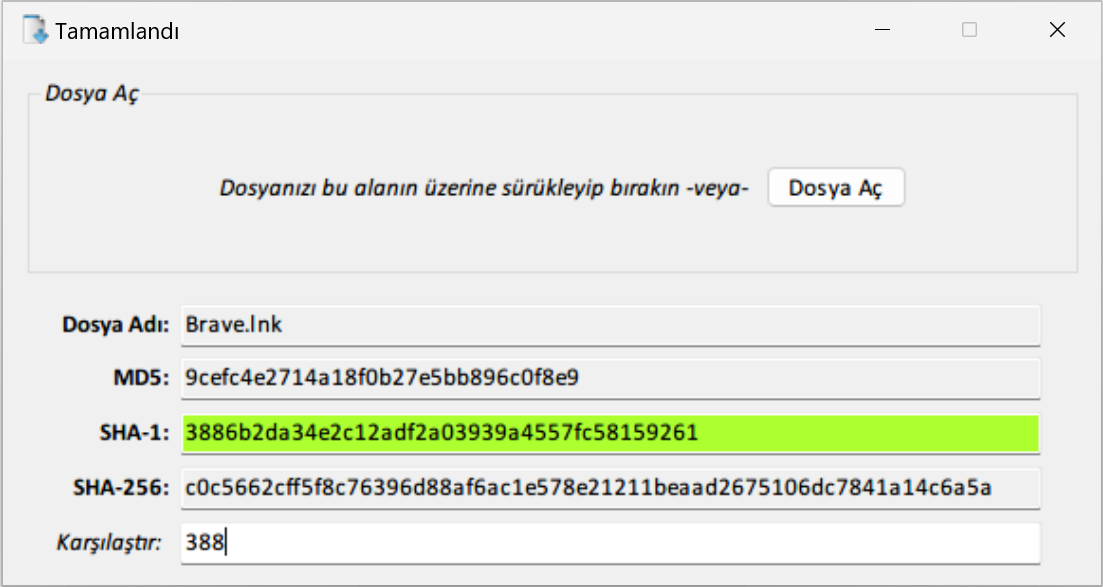
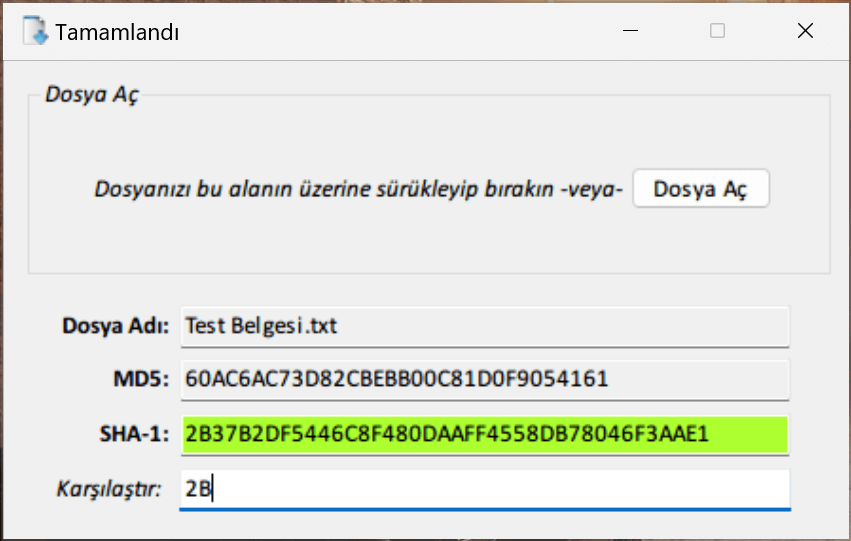
Dosya Hash Degeri Hesaplayici Guncellendi

Changed region(s): [[0.0, 0.0, 1.0, 1.0], [0.0917, 0.2957, 0.886, 0.3845]]

diff --git a/_posts/programlar/2023-04-04-dosya-hash-degeri-hesaplayici.md b/_posts/programlar/2023-04-04-dosya-hash-degeri-hesaplayici.md
@@ -3,7 +3,7 @@ layout: post
 title: Dosya Hash Değeri Hesaplayıcı
 date: 2023-04-04 11:43 +0300
 categories: Programlar
-tags: Hash Değeri, Sha-1, Sha-256, MD5, Kontrol Kodu, Hash Hesapla
+tags: Hash Değeri, MD5, Sha-1, Kontrol Kodu, Hash Hesapla
 excerpt: Bundan yaklaşık bir hafta önce (programı ilk yazdığım 2017 yılında), programlarımdan birine dair eleştiri geldi. Eleştiriyi yapan kişi temel olarak programın virüs ve casus program barındırdığını söylemekte, kendince çeşitli nedenler sıralamaktaydı. Kendisine verdiğim cevaplarda programın kaynak kodlarına göz gezdirmesini ve VirusTotal sonuçlarına bakmasını istedim...
 redirect_from:
   - /programlar/dosya-hash-degeri-hesaplayici/
@@ -27,23 +27,22 @@ Burada bazı faydalar dikkatinizi çekecektir:
 - Hash sayesinde dosyaların düzgün indirilip indirilmediği öğrenilebilirsiniz.
 - Hash sayesinde dosyalarda değişiklik yapılıp yapılmadığı öğrenilebilirsiniz.
 
-Girizgah fazla uzadı nedense. Çok mu dolmuşum ne?!?! Özet geçeyim; bu programla dosyaların MD5 ve SHA-1, SHA-256 değerlerini görebilir ve bunları indirdiğiniz sitedeki hash değerleri ile karşılaştırabilirsiniz. Değerler karşı taraf ile bire bir uyuyorsa dosyada hiçbir sorun yoktur ve dosyaya dokunulmamıştır. Fakat değerler aynı değilse o dosyadan hayır yoktur. Dosya başkaları veya 3. şahıslarca değiştirilmiştir. Mümkünse dosyaya temkinli yaklaşın. Hatta dosyayı VirusTotal'e yükleyerek tarama yapın. Programın özelliklerine gelecek olursak;
+Girizgah fazla uzadı nedense. Çok mu dolmuşum ne?!?! Özet geçeyim; bu programla dosyaların MD5 ve SHA-1 değerlerini görebilir ve bunları indirdiğiniz sitedeki hash değerleri ile karşılaştırabilirsiniz. Değerler karşı taraf ile bire bir uyuyorsa dosyada hiçbir sorun yoktur ve dosyaya dokunulmamıştır. Fakat değerler aynı değilse o dosyadan hayır yoktur. Dosya başkaları veya 3. şahıslarca değiştirilmiştir. Mümkünse dosyaya temkinli yaklaşın. Hatta dosyayı VirusTotal'e yükleyerek tarama yapın. Programın özelliklerine gelecek olursak;
 
 - Dosyaları ilgili alanın üzerine sürükleyerek bırakarak açma,
 - MD5 değerini bulma,
 - SHA-1 değerini bulma,
-- SHA-256 değerini bulma,
 - Dosya hash eşleştirmesi yapabilme.
 
 {:.tablo-ortali}
 | Dosya Hash Değeri Hesaplayıcı <br>![Versiyon](https://img.shields.io/badge/Versiyon-1.14-blueviolet.svg?style=flat) ![Durum](https://img.shields.io/badge/Durum-Çalışıyor-success.svg?style=flat) | Dosya Hash Değeri Hesaplayıcı (Proje)<br>![Lisans](https://img.shields.io/badge/Lisans-MIT-blue.svg?style=flat) ![Arşiv](https://img.shields.io/badge/Arşiv-orange.svg?style=flat)|
 |----------------------------------------- -|-------------------------------------------|
-| **Boyut**: 143 KB | **Boyut**: 400 KB |
+| **Boyut**: 143 KB | **Boyut**: 629 KB |
 | **Gereksinimler**: .Net Framework 4.8 | **Gereksinimler**: .Net Framework 4.8 |
 | **Platform**: Microsoft Windows | **Programlama Dili**: C# |
 | **İndir**: [Link](https://www.dropbox.com/s/qm72jn7xtsd2hxw/dosya-hash-degeri-hesaplayici.zip?dl=1) | **İndir**: [Link](https://www.dropbox.com/s/ycsfp8q8ad20ind/dosya-hash-degeri-hesaplayici-proje.zip?dl=1) <br> **GitHub**: [Link](https://github.com/Umut-D/Dosya-Hash-Hesaplayici) |
 
-**Ek** : Hash kodlarının nasıl hesaplandığını görmeye gelenler için **IHashable.cs**, **Md5.cs**, **Sha256.cs** ve **Sha1.cs** sınıflarındaki kodlar:
+**Ek** : Hash kodlarının nasıl hesaplandığını görmeye gelenler için **IHashable.cs**, **Md5.cs** ve **Sha1.cs** sınıflarındaki kodlar:
 
 ```csharp
 namespace HashLibrary.Hash
@@ -89,32 +88,6 @@ namespace HashLibrary.Hash
             var sha1 = SHA1.Create().ComputeHash(dosya.Oku());
             return BitConverter.ToString(sha1).TiresizVeKucukHarfliYaz();
 
-        }
-    }
-}
-```
-
-<div id="ara"></div>
-
-```csharp
-using System;
-using System.IO;
-using System.Security.Cryptography;
-using System.Text;
-
-namespace HashLibrary.Hash
-{
-    public class Sha256 : IHashable
-    {
-        public string Hesapla(Dosya dosya)
-        {
-            using (var sha256 = new SHA256Managed())
-            {
-                string okunanAkis = new StreamReader(dosya.Oku()).ReadToEnd();
-                byte[] encoding = Encoding.UTF8.GetBytes(okunanAkis);
-                return BitConverter.ToString(sha256.ComputeHash(encoding))
-                .TiresizVeKucukHarfliYaz();
-            }
         }
     }
 }
